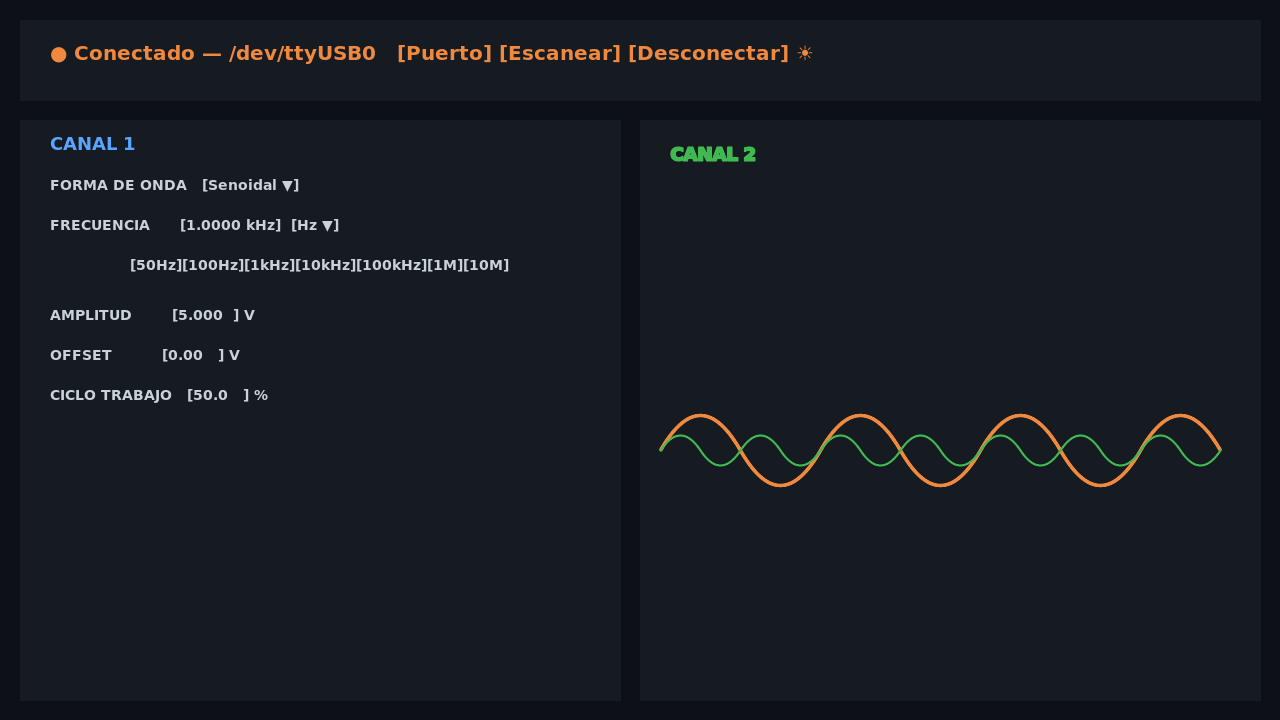
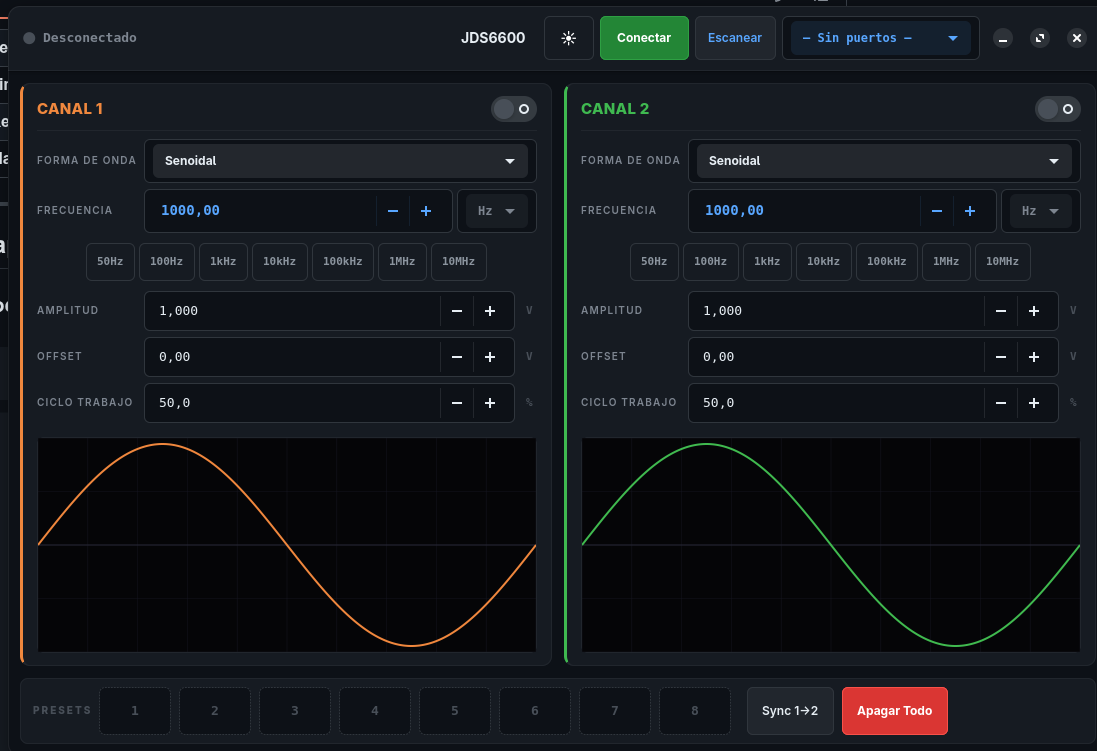
docs: reemplazar capturas generadas con las reales
- Reemplazar dark-mode.png y light-mode.png con capturas reales
- Eliminar connected.png del README y del repositorio
- README ahora muestra solo las 2 capturas reales

diff --git a/README.md b/README.md
@@ -89,10 +89,6 @@ Aplicación de escritorio nativa para controlar generadores de señales **JDS660
 
 ![Modo Claro](screenshots/light-mode.png)
 
-### Conexión exitosa
-
-![Conectado](screenshots/connected.png)
-
 ---
 
 ## Requisitos
